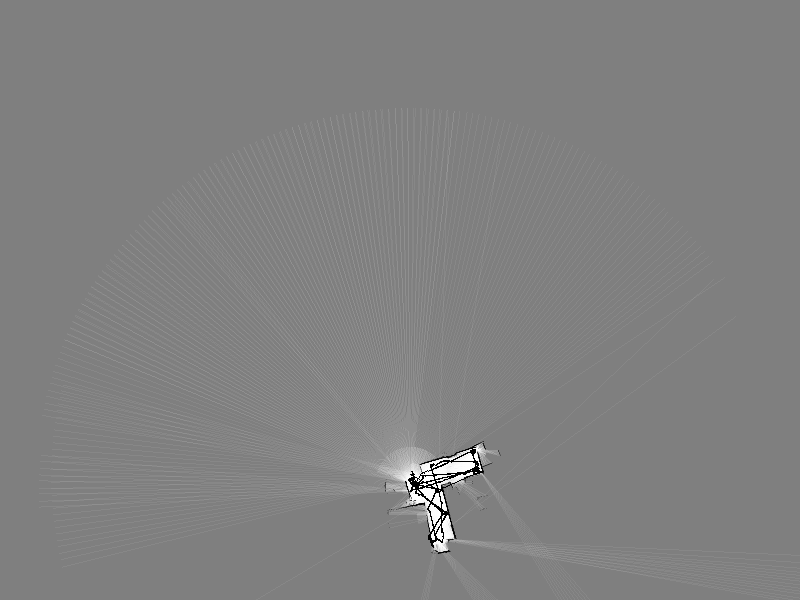
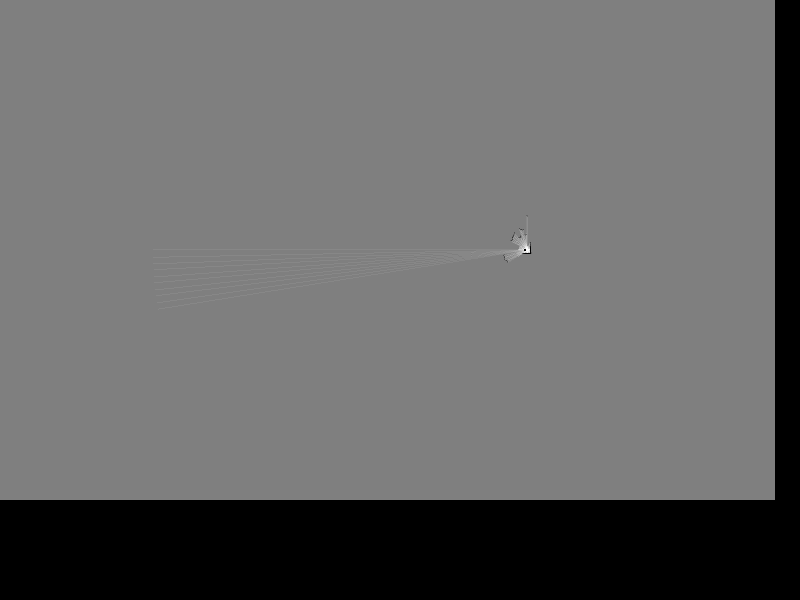
re-adjusted lidar pose

Changed region(s): [[0.0, 0.0, 1.0, 1.0], [0.625, 0.39, 0.6875, 0.42]]

diff --git a/ros_slave_ws/src/mrpt_slam/src/slammer.cpp b/ros_slave_ws/src/mrpt_slam/src/slammer.cpp
@@ -9,8 +9,12 @@ slammer::slammer(ros::NodeHandle & node)
 
     start__ = ros::Time::now().toSec();
     timer__ = start__;
+    // old sensor position TODO: adjust X, Y, Z.
+    // Yaw is zero now (aligned to X axis)
+    // Pitch is zero
+    // Rollw is inverted (else mape is mirrored)
     sensor__ = mrpt::poses::CPose3D(0.1, 0, 0.1, 
-                                    mrpt::utils::DEG2RAD(7), // yaw
+                                    mrpt::utils::DEG2RAD(0), // yaw
                                     0, 
                                     mrpt::utils::DEG2RAD(180)); // roll
 
